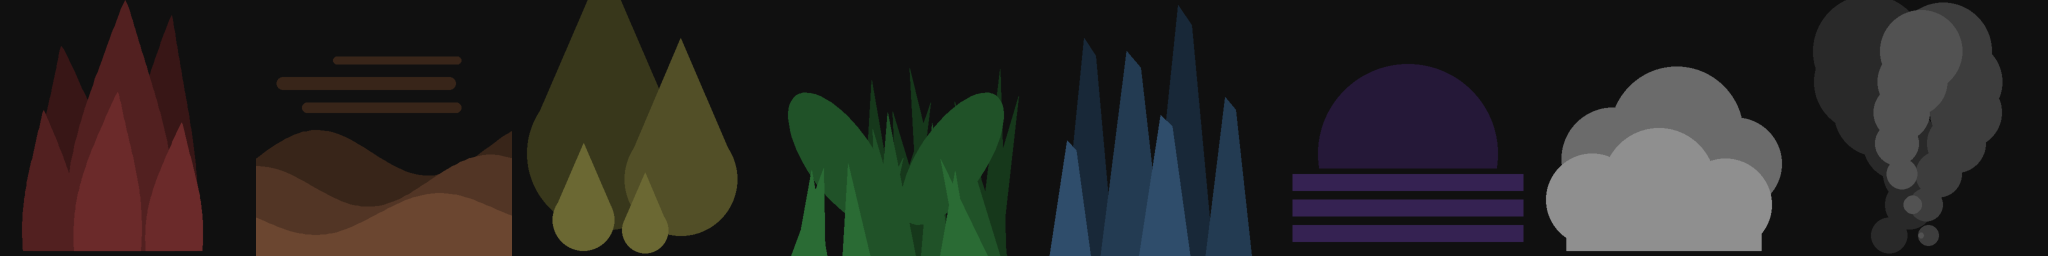
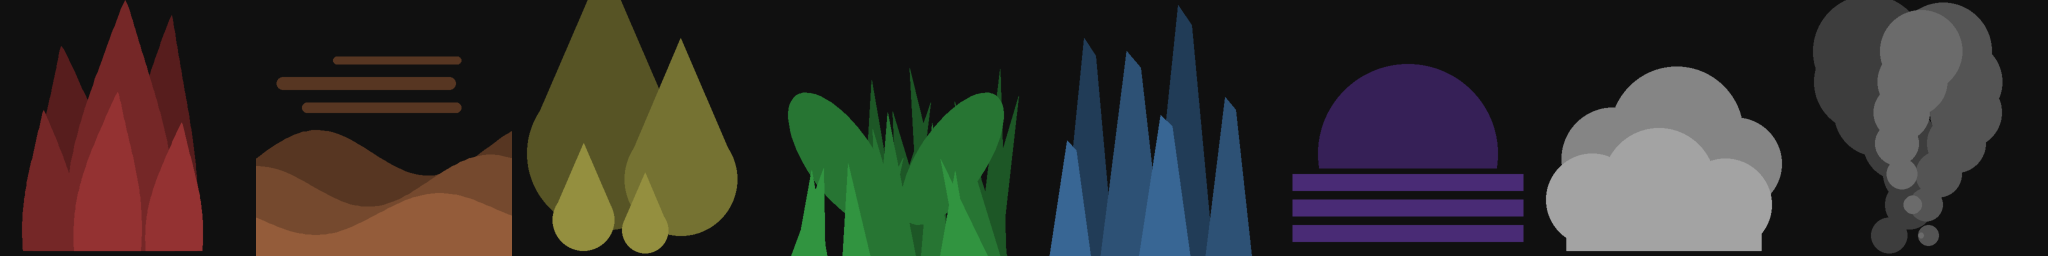
THE STAGE v2: exposed for the shades, thinner haze and a narrower wash, framed a little lower, the scenic pieces lighter
Claude-Session: https://claude.ai/code/session_01CsZ9sPVytkpnrfV4BgTgfB

diff --git a/spinoffs/barkhorn/campaign/shots.py b/spinoffs/barkhorn/campaign/shots.py
@@ -2441,7 +2441,7 @@ STAGE2_SCENIC = {'ember': (-0.55, 0.55, 1.25, False), 'dust': (0.5, 0.6, 1.0, Fa
                  'fog': (0.55, 0.6, 0.9, False), 'smoke': (0.45, 0.6, 1.4, True)}
 
 
-def hero_stage2(wash=0.15, haze=0.02):
+def hero_stage2(wash=0.3, haze=0.007):
     s = _cast_base()
     Z, FRONT, BACK = 1.0, -1.2, 3.2
     pose, hemis, risers, pieces = {}, [], [], []
@@ -2479,13 +2479,15 @@ def hero_stage2(wash=0.15, haze=0.02):
     s['sky']['strength'] = 0.0
     s['lights'] = {}
     if wash:   # declared: one stage wash from the house, out of frame, warm, gridded
-        s['lights']['house-wash'] = {'type': 'area', 'size_m': [3.0, 1.5], 'position': [0.0, -8.6, 5.2], 'target': [0.0, 0.5, Z + 1.2],
-                                     'irradiance': wash, 'color': '#FFE4C4', 'spread_deg': 50}
+        s['lights']['house-wash'] = {'type': 'area', 'size_m': [3.0, 1.5], 'position': [0.0, -8.6, 5.2], 'target': [0.0, 0.5, Z + 1.0],
+                                     'irradiance': wash, 'color': '#FFE4C4', 'spread_deg': 34}
     if haze:   # declared: a little stage haze, so each lamp's cone shows
         s['haze'] = {'box_m': [-6.0, FRONT, Z, 6.0, BACK, 8.0], 'density': haze, 'anisotropy': 0.5, 'color': '#FFFFFF'}
-    s['camera'] = {'position': [0.0, -7.4, 0.92], 'target': [0.0, 1.0, 2.9], 'lens_mm': 35.0, 'level': True}
+    # (proof 1: the Cores cut by the frame's foot, the haze lit all over by the wash, the shades blown: a little lower;
+    # the haze thinner, the wash narrower; exposed for the shades)
+    s['camera'] = {'position': [0.0, -7.4, 0.92], 'target': [0.0, 1.0, 2.7], 'lens_mm': 35.0, 'level': True}
     s['size'] = [1920, 880]
-    s['render'].update({'samples': 256, 'denoise': True, 'clamp': 0, 'exposure': 3.0, 'white_balance_k': 3600, 'white_balance_tint': 0.0,
+    s['render'].update({'samples': 256, 'denoise': True, 'clamp': 0, 'exposure': 1.8, 'white_balance_k': 3600, 'white_balance_tint': 0.0,
                         'bounces': 32, 'diffuse_bounces': 12, 'glossy_bounces': 16, 'transmission_bounces': 32, 'volume_bounces': 1,
                         'caustics_refractive': True, 'caustics_reflective': True})
     s.pop('finish', None)

diff --git a/spinoffs/barkhorn/campaign/stage/make_scenic.py b/spinoffs/barkhorn/campaign/stage/make_scenic.py
@@ -142,10 +142,10 @@ def main():
     out, sheet = {}, Image.new('RGB', (N * 8 // 2, N // 2), '#101010')
     for k, (t, hx) in enumerate(TINT.items()):
         ls = layers(t); n = len(ls)
-        vals = [0.22, 0.32, 0.42][:n] if t not in ('fog',) else [0.42, 0.56, 0.68][:n]
+        vals = [0.34, 0.46, 0.58][:n] if t not in ('fog',) else [0.52, 0.64, 0.76][:n]
         if t == 'smoke':
-            vals = [0.16, 0.24, 0.32][:n]
-        sat = 0.0 if t in ('fog', 'smoke') else 0.62
+            vals = [0.24, 0.33, 0.42][:n]
+        sat = 0.0 if t in ('fog', 'smoke') else 0.68
         out[t] = []
         for i, im in enumerate(ls):
             col = _muted(hx, vals[i], sat)
